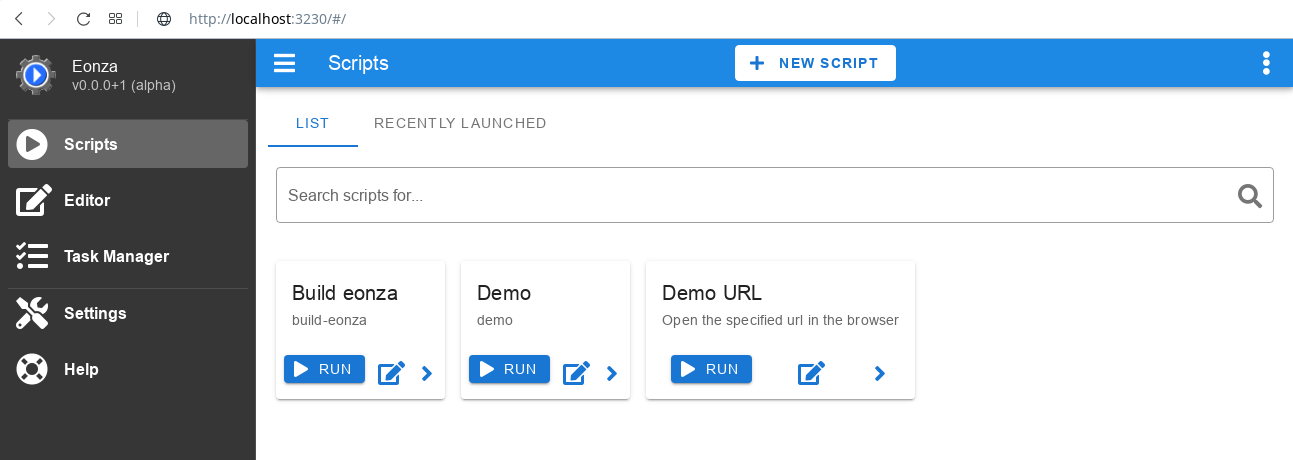
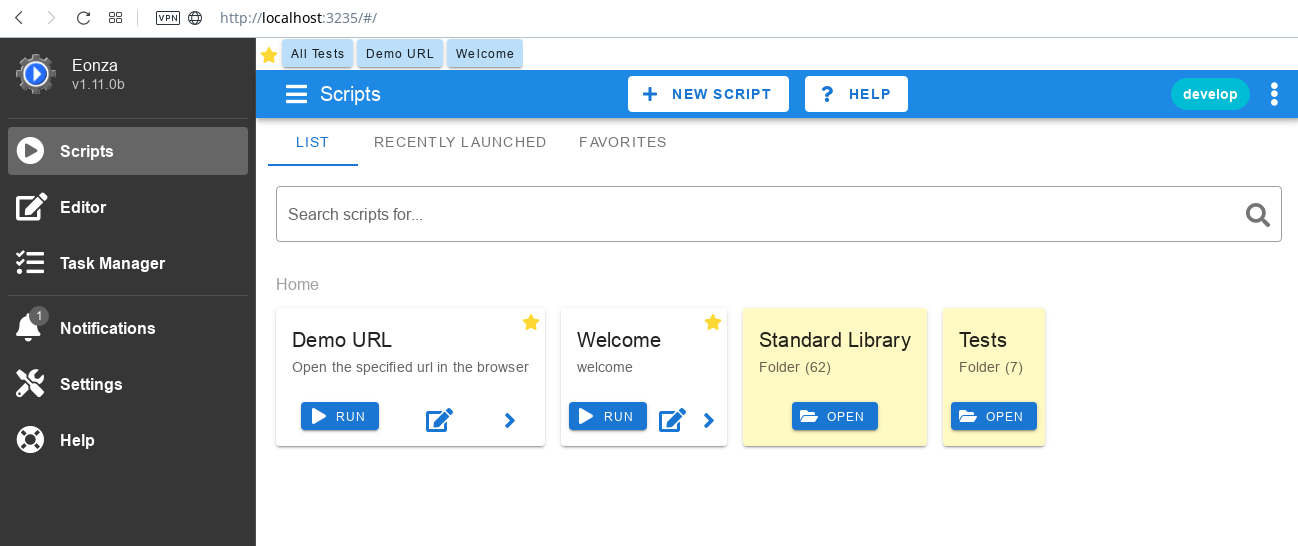
Added notifications

diff --git a/ru/docs/notifications.md b/ru/docs/notifications.md
@@ -1,0 +1,10 @@
+---
+title: Закладка Уведомления
+desc: Документация по закладке Уведомления программы Eonza.
+---
+# Уведомления
+
+**v1.11.0**  
+Закладка Уведомления содержит список полученных уведомлений. Уведомления могут быть созданы самой программой или командой [Уведомление](/ru/scripts/notification.html). В первом случае, это могут быть уведомления о наличии новой версии или системные сообщения о работоспособности программы. Во втором случае, уведомление с любым текстом может быть отправлено из любого скрипта с помощью указанной команды. Программа показывает только 25 последних уведомлений. Все уведомления хранятся в файле с расширением *nfy*. Если у вас накопилось много уведомлений и вы не хотите удалять их по одному, то можете удалить этот файл и перезапустить программу.
+
+%html.notifications%

diff --git a/en/docs/notifications.md b/en/docs/notifications.md
@@ -1,0 +1,14 @@
+---
+title:  Notifications tab
+desc: Documentation for the Eonza Notifications tab.
+img:
+   notifications: notifications.png
+html:
+   notifications: '<img src="%img.notifications%" style="margin: 1em 1em;"/>'
+---
+# Notifications
+
+**v1.11.0**  
+The Notifications tab contains a list of received notifications. Notifications can be created by the program itself or by [Notification](/scripts/notification.html) command. In the first case, these can be notifications about the availability of a new version or system messages about the program's performance. In the second case, a notification with any text can be sent from any script using the specified command. The program only shows the latest 25 notifications. All notifications are stored in a file with the *nfy* extension. If you have accumulated a lot of notifications and do not want to delete them one by one, you can delete this file and restart the program.
+
+%html.notifications%

diff --git a/ru/scripts/notification.md b/ru/scripts/notification.md
@@ -1,0 +1,18 @@
+---
+title: Отправить уведомление
+desc: Команда отправляет уведомление в программу Eonza.
+---
+# Уведомление
+
+**v1.11.0**  
+Команда **Уведомление** отправляет уведомление в программу Eonza. Полученные уведомления можно смотреть в закладке [Уведомления](/ru/docs/notifications.html).
+
+%html.notification%
+
+**Текст**  
+Укажите текст отправляемого уведомления. Текст может содержать HTML тэги.
+
+``` txt
+Hello, #name#,
+The test task has been <strong>successfully</strong> finished.
+```

diff --git a/en/scripts/notification.md b/en/scripts/notification.md
@@ -1,0 +1,22 @@
+---
+title: Send notification
+desc: The command sends a notification to the Eonza program.
+img:
+   notification: scripts/notification.png
+html:
+   notification: '<img src="%img.notification%" style="margin: 1em 1em;"/>'
+---
+# Notification
+
+**v1.11.0**  
+The **Notification** command sends a notification to the Eonza program. You can see the received notifications in the [Notifications](/docs/notifications.html) tab.
+
+%html.notification%
+
+**Text**.  
+Specify the text of the notification to be sent. The text may contain HTML tags.
+
+``` txt
+Hello, #name#,
+The test task has been <strong>successfully</strong> finished.
+```

diff --git a/ru/docs/changelog-2021.md b/ru/docs/changelog-2021.md
@@ -6,6 +6,8 @@ desc: История изменений программы Eonza за 2021
 
 ## Версия разработчика
 
+* Добавлены [Уведомления](/ru/docs/notifications.html).
+* Добавлена командa [Уведомление](/ru/scripts/notification.html).
 * Добавлена командa [Отправить сообщение в Telegram](/ru/scripts/send-telegram-message.html).
 * Добавлен выбор языка при первом запуске.
 * Добавлена подстановка переменных в команду **HTTP запрос**.

diff --git a/en/docs/changelog-2021.md b/en/docs/changelog-2021.md
@@ -6,6 +6,8 @@ desc: Eonza Program Changelog for 2021
 
 ## Developer version
 
+* Added [Notifications](/docs/notifications.html).
+* Added the [Notification](/scripts/notification.html) command.
 * Added the [Send Telegram Message](/scripts/send-telegram-message.html) command.
 * Added language selection on first launch.
 * Added variable substitution to the **HTTP Request** command.
